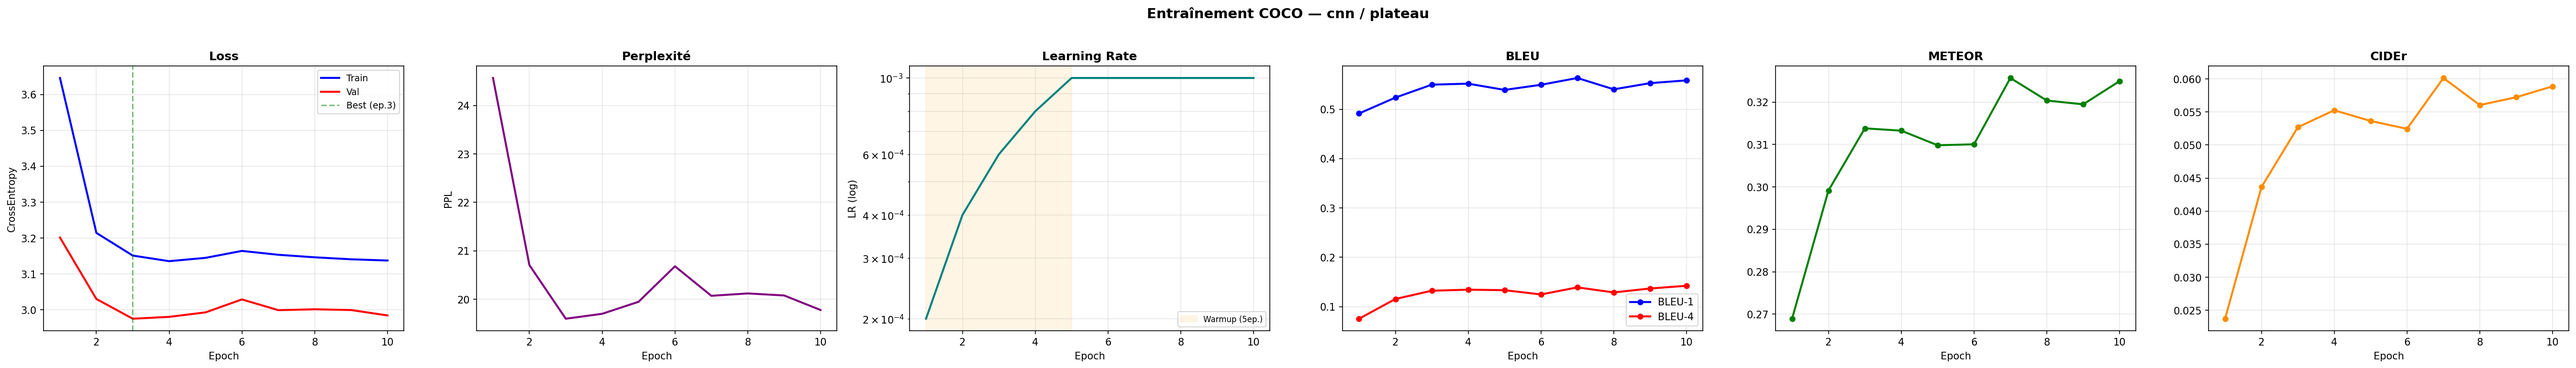
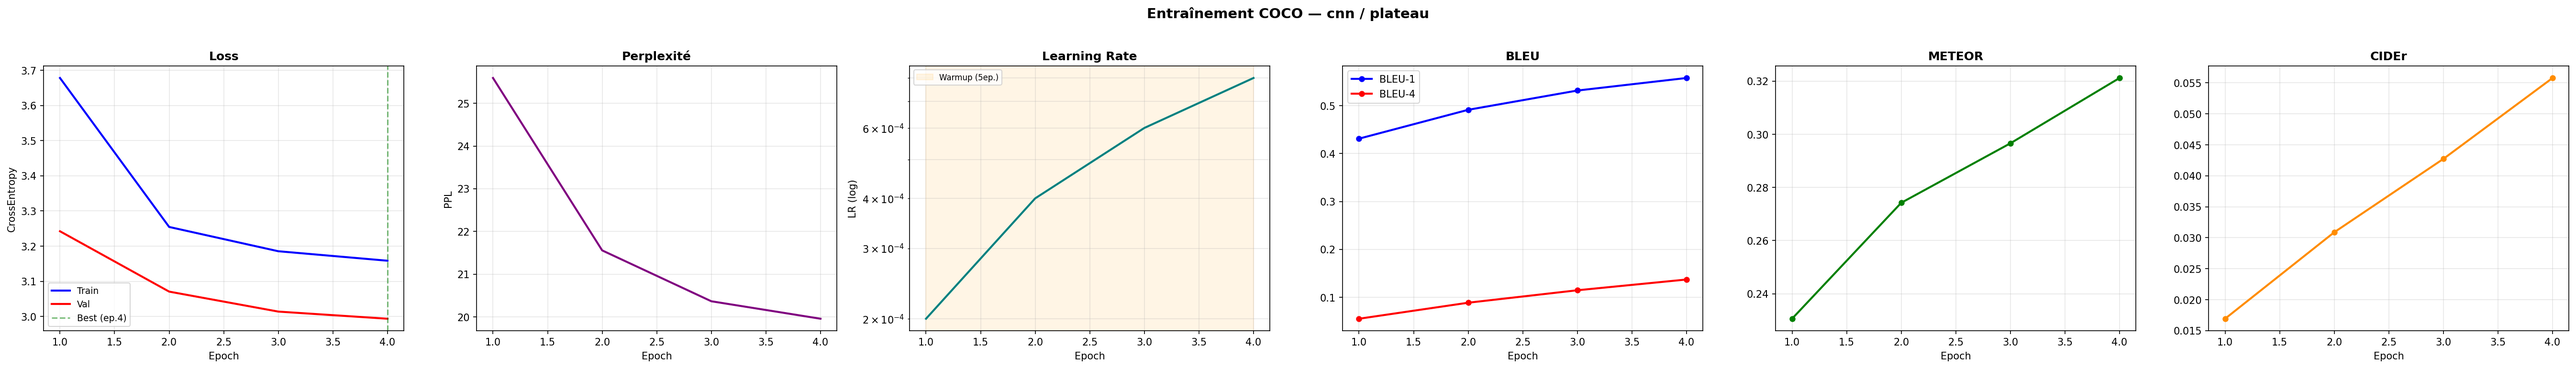
Update best model checkpoint resnet plateau and training logs

diff --git a/config.py b/config.py
@@ -60,7 +60,7 @@ BASE_CONFIG = {
     'max_no_improve_cycles':   3,
 
     # ── Early stopping global ─────────────────────────────────────────────────
-    'patience':      7,
+    'patience':      15,
 
     # ── Régularisation doubly stochastic (Xu et al. 2015) ─────────────────────
     # Activée automatiquement pour model='resnet' et model='densenet'.
